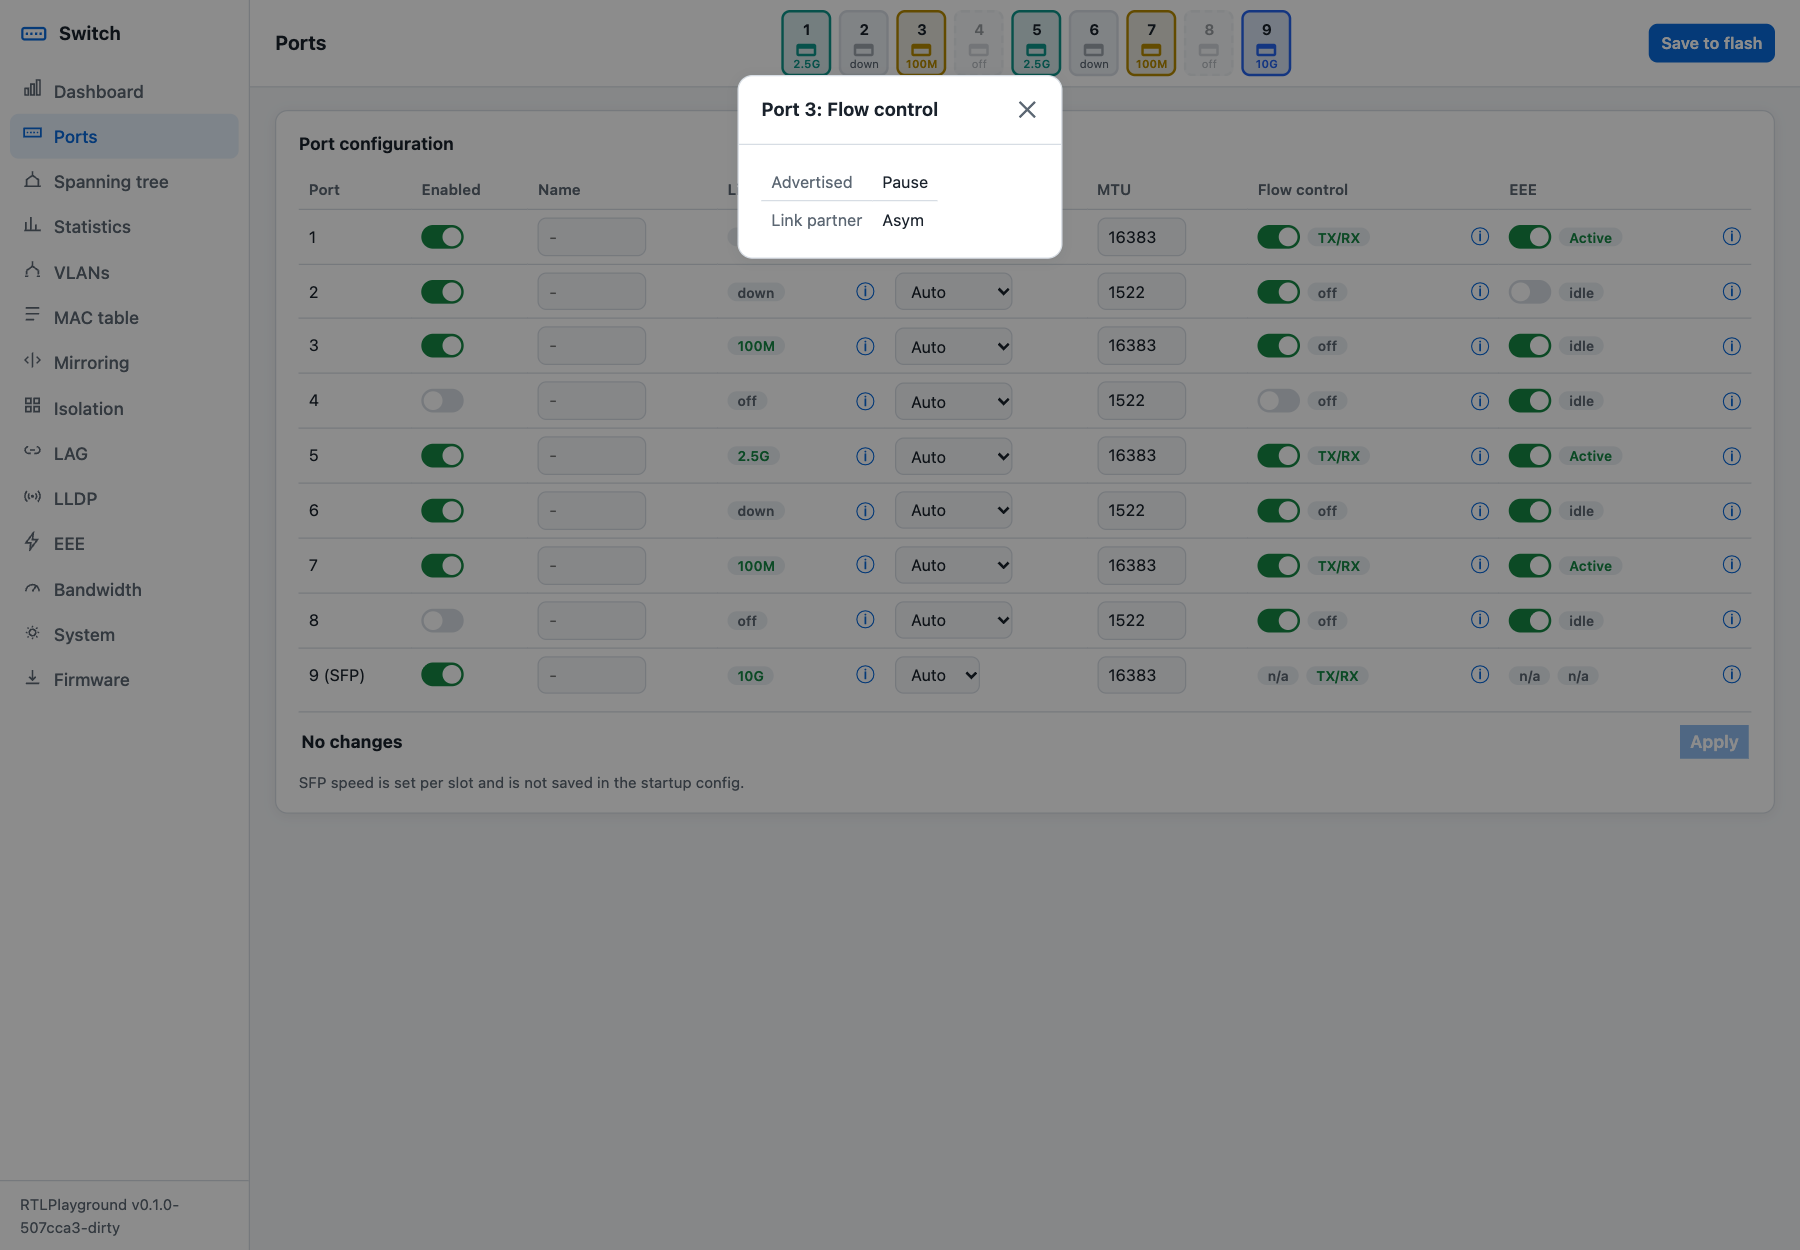
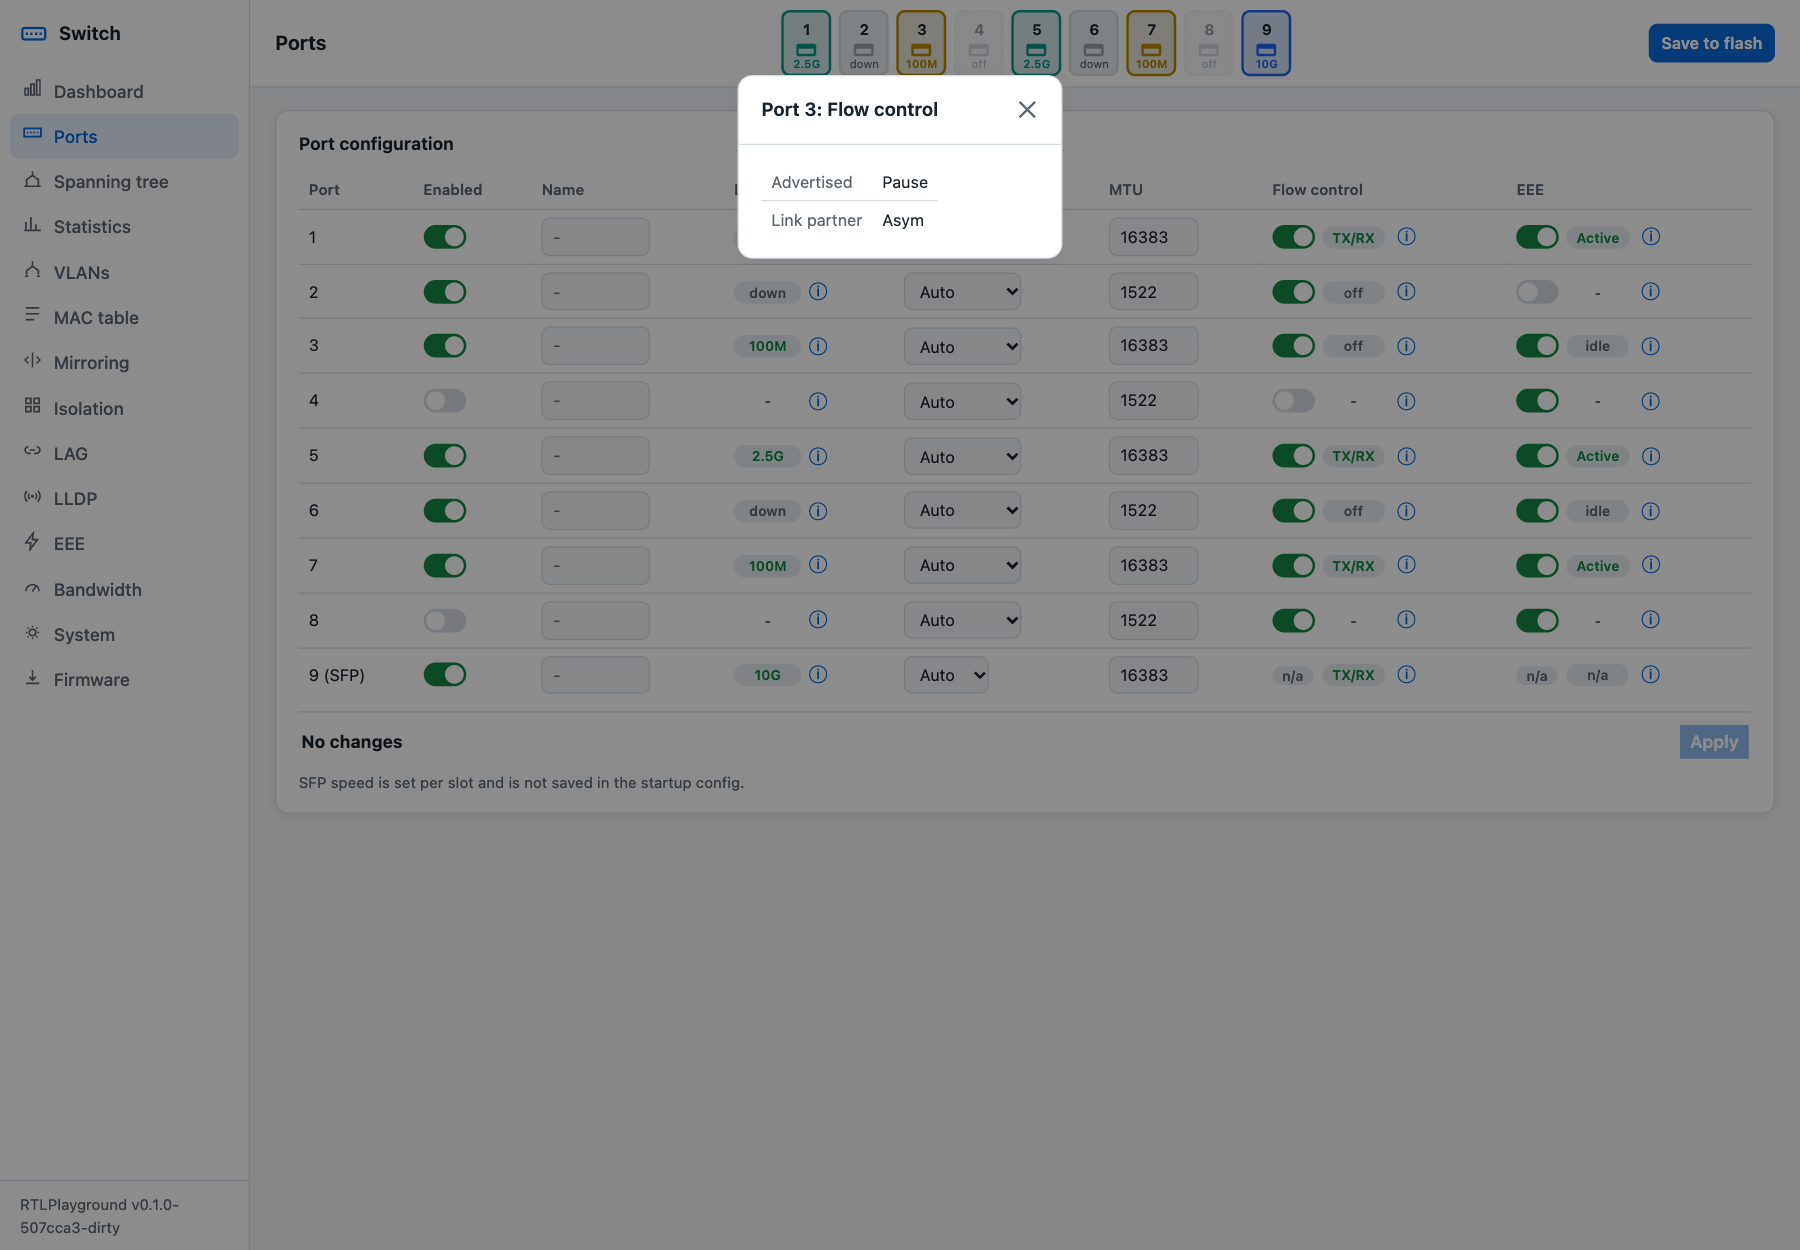
Mock-up J: '-' for disabled ports and features

diff --git a/html/mockup.js b/html/mockup.js
@@ -16,8 +16,10 @@ function sw(on,dis){
   l.firstChild.checked=!!on;if(dis)l.firstChild.disabled=true;
   return l;
 }
-function fcNeg(p){var n=FC[p.portNum]>>4&3;return n?badge(["","TX","RX","TX/RX"][n],"ok"):badge(t("c_off"))}
-function eeeSt(p){var e=EEE[p.portNum];return p.isSFP?badge(t("e_na")):e.active?badge(t("e_active"),"ok"):badge(t("e_idle"))}
+// "-" = port or feature switched off; "off"/"idle" = switched on but not in use on this link
+function dash(){return'<span class="badge" style="background:none">-</span>'}
+function fcNeg(p){var f=FC[p.portNum],n=f>>4&3;return!p.enabled||(!p.isSFP&&!(f&1))?dash():n?badge(["","TX","RX","TX/RX"][n],"ok"):badge(t("c_off"))}
+function eeeSt(p){var e=EEE[p.portNum];return p.isSFP?badge(t("e_na")):!p.enabled||!parseInt(e.adv,2)?dash():e.active?badge(t("e_active"),"ok"):badge(t("e_idle"))}
 function cellWith(tr,kids){var c=tr.insertCell();c.style.whiteSpace="nowrap";kids.forEach(function(k){typeof k==="string"?c.insertAdjacentHTML("beforeend",k):c.appendChild(k)});return c}
 
 function baseRow(tb,p,opt){
@@ -519,7 +521,7 @@ function mockStatus(){
   S.ports.forEach(function(p){
     var i=p.portNum-1,el=$("plink"+i),mc=$("pmac"+i);
     if(mc)mc.textContent=parseInt(p.macs,16)&0x1fff;
-    if(el){el.innerHTML=linkBadge(p);if(LINKINFO){var w=h("span",{style:"display:inline-flex;align-items:center;white-space:nowrap"},[h("span",{class:"fitlink",html:el.innerHTML}),infoBtn(p)]);el.innerHTML="";el.appendChild(w)}}
+    if(el){el.innerHTML=LINKINFO&&!p.enabled?dash():linkBadge(p);if(LINKINFO){var w=h("span",{style:"display:inline-flex;align-items:center;white-space:nowrap"},[h("span",{class:"fitlink",html:el.innerHTML}),infoBtn(p)]);el.innerHTML="";el.appendChild(w)}}
   });
 }
 function mock(v){
